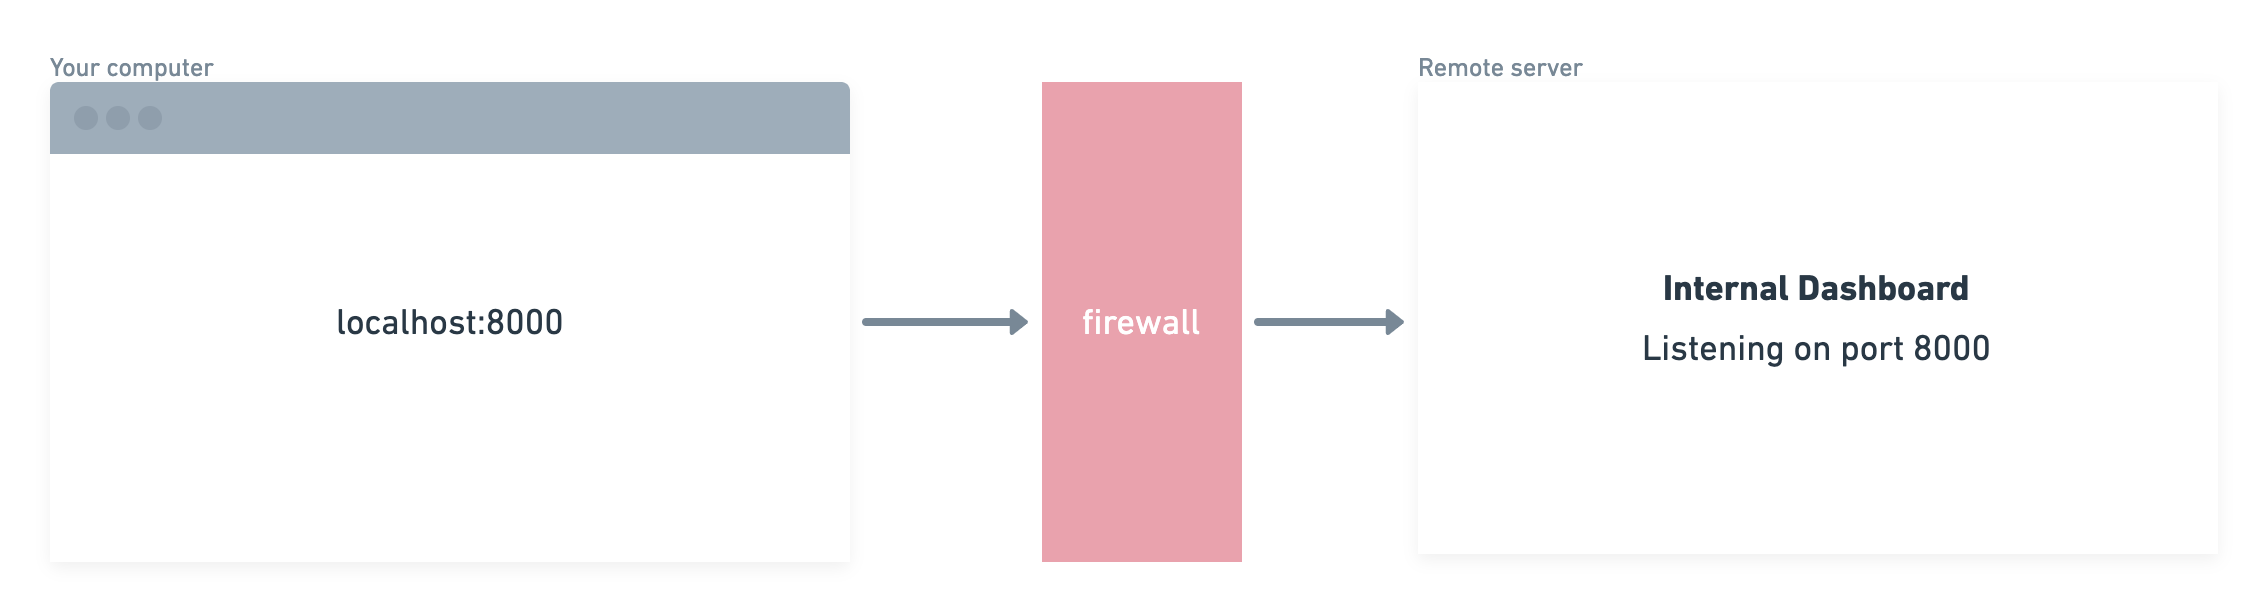
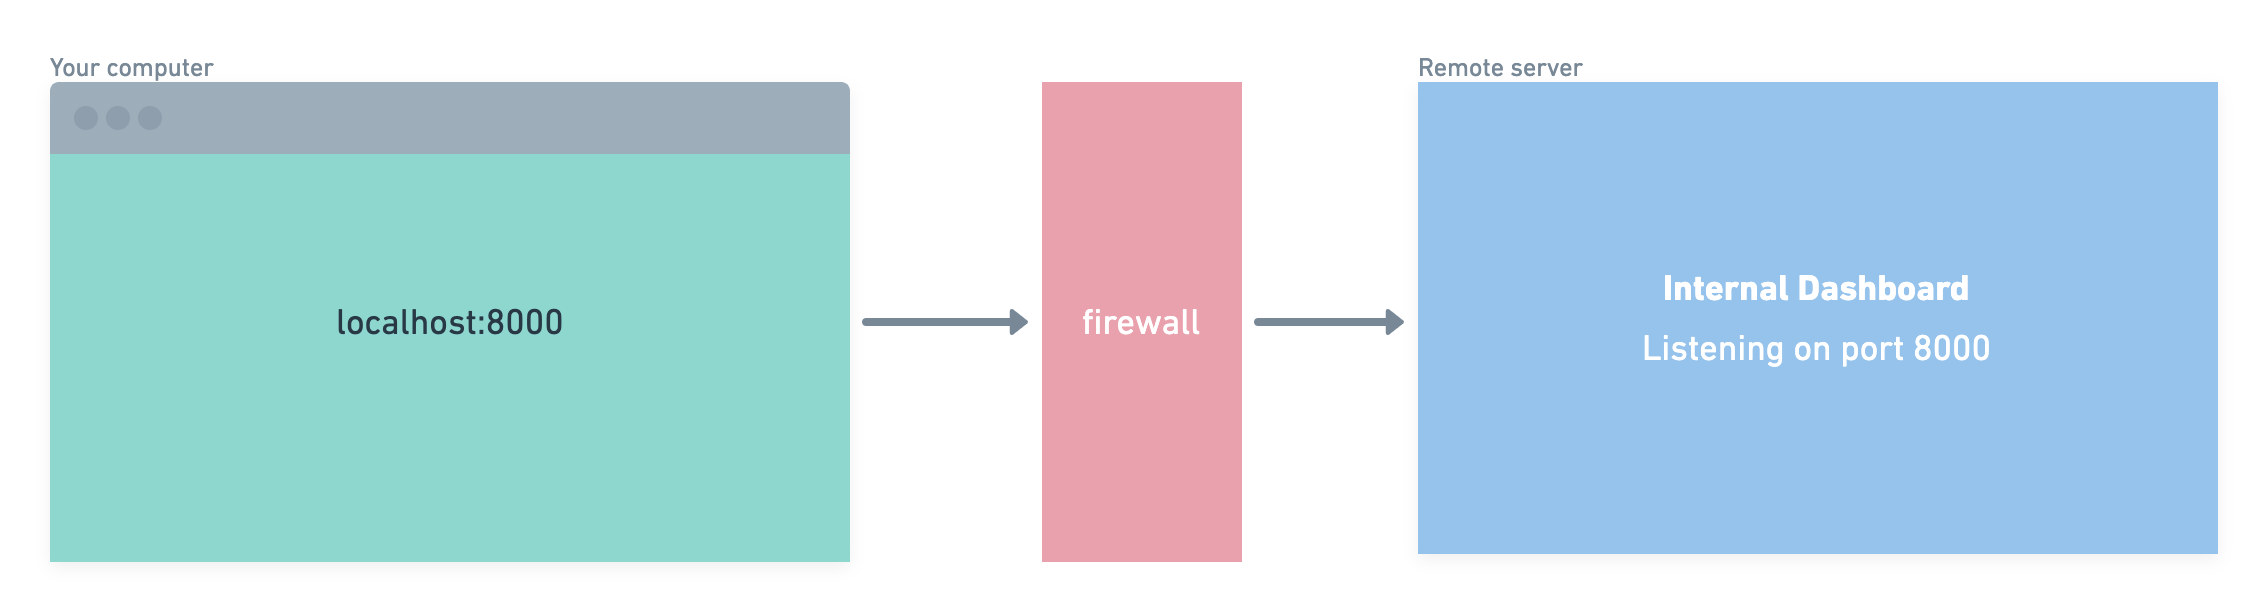
chore: better colours on the flow diagram

diff --git a/README.md b/README.md
@@ -1,5 +1,5 @@
 <p align="center">
-  <h1 align="center">Tunnel Boring MaSSHine</h1>
+  <h2 align="center">Tunnel Boring MaSSHine</h2>
 
   <p align="center">
     Reliable SSH tunnels from one machine to another.
